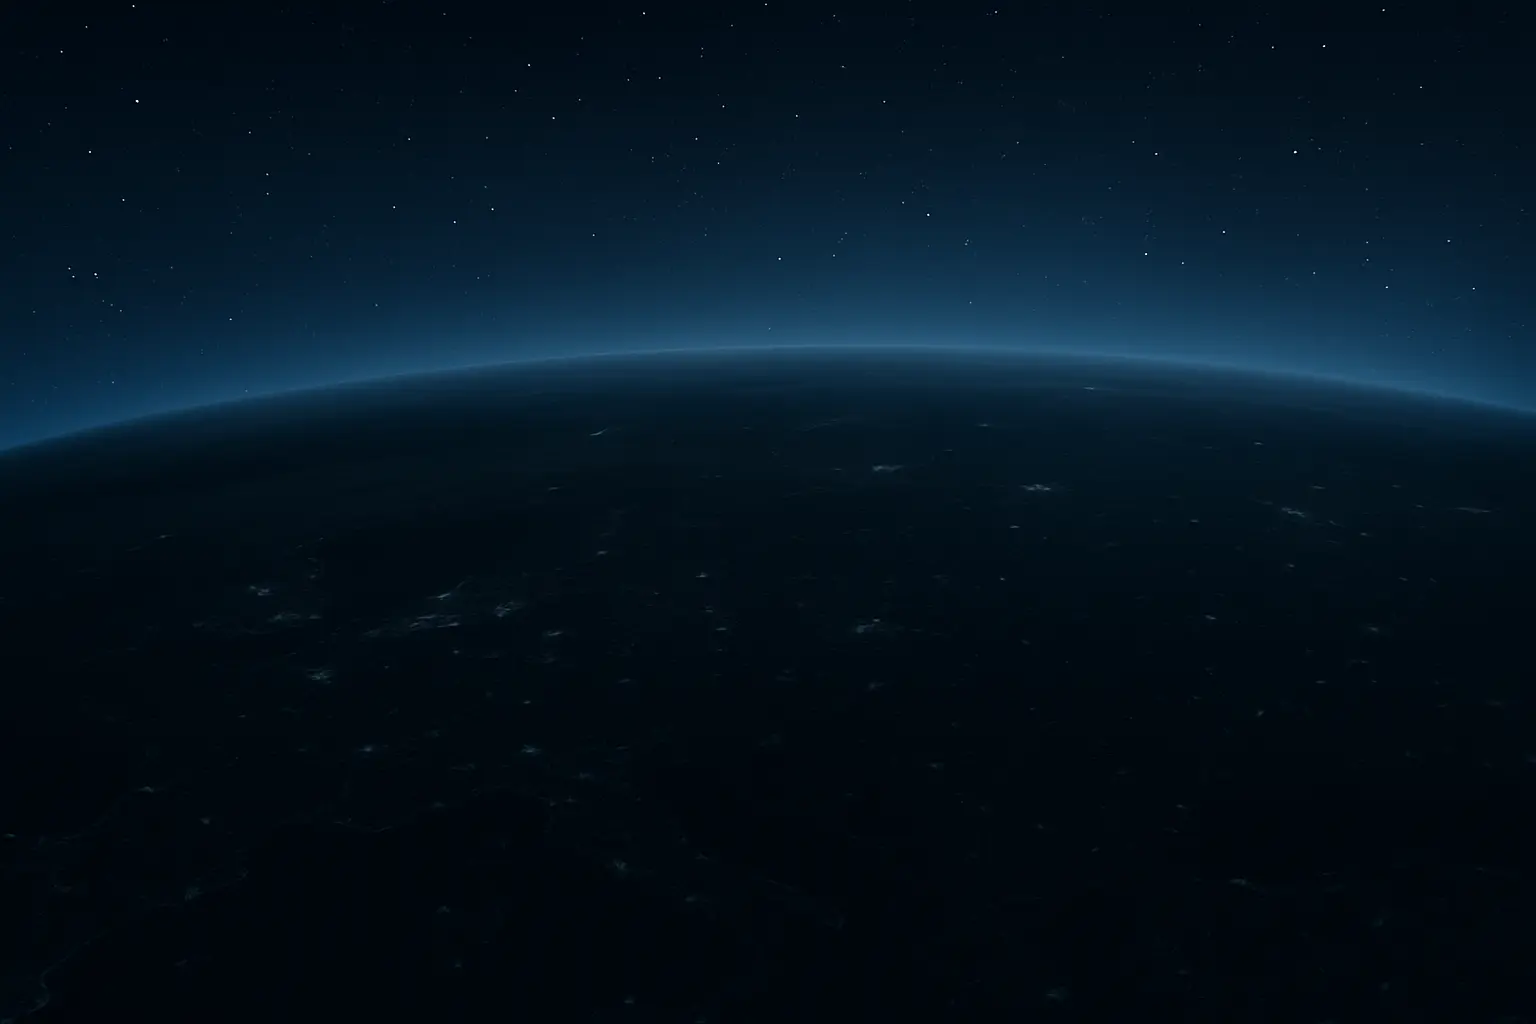
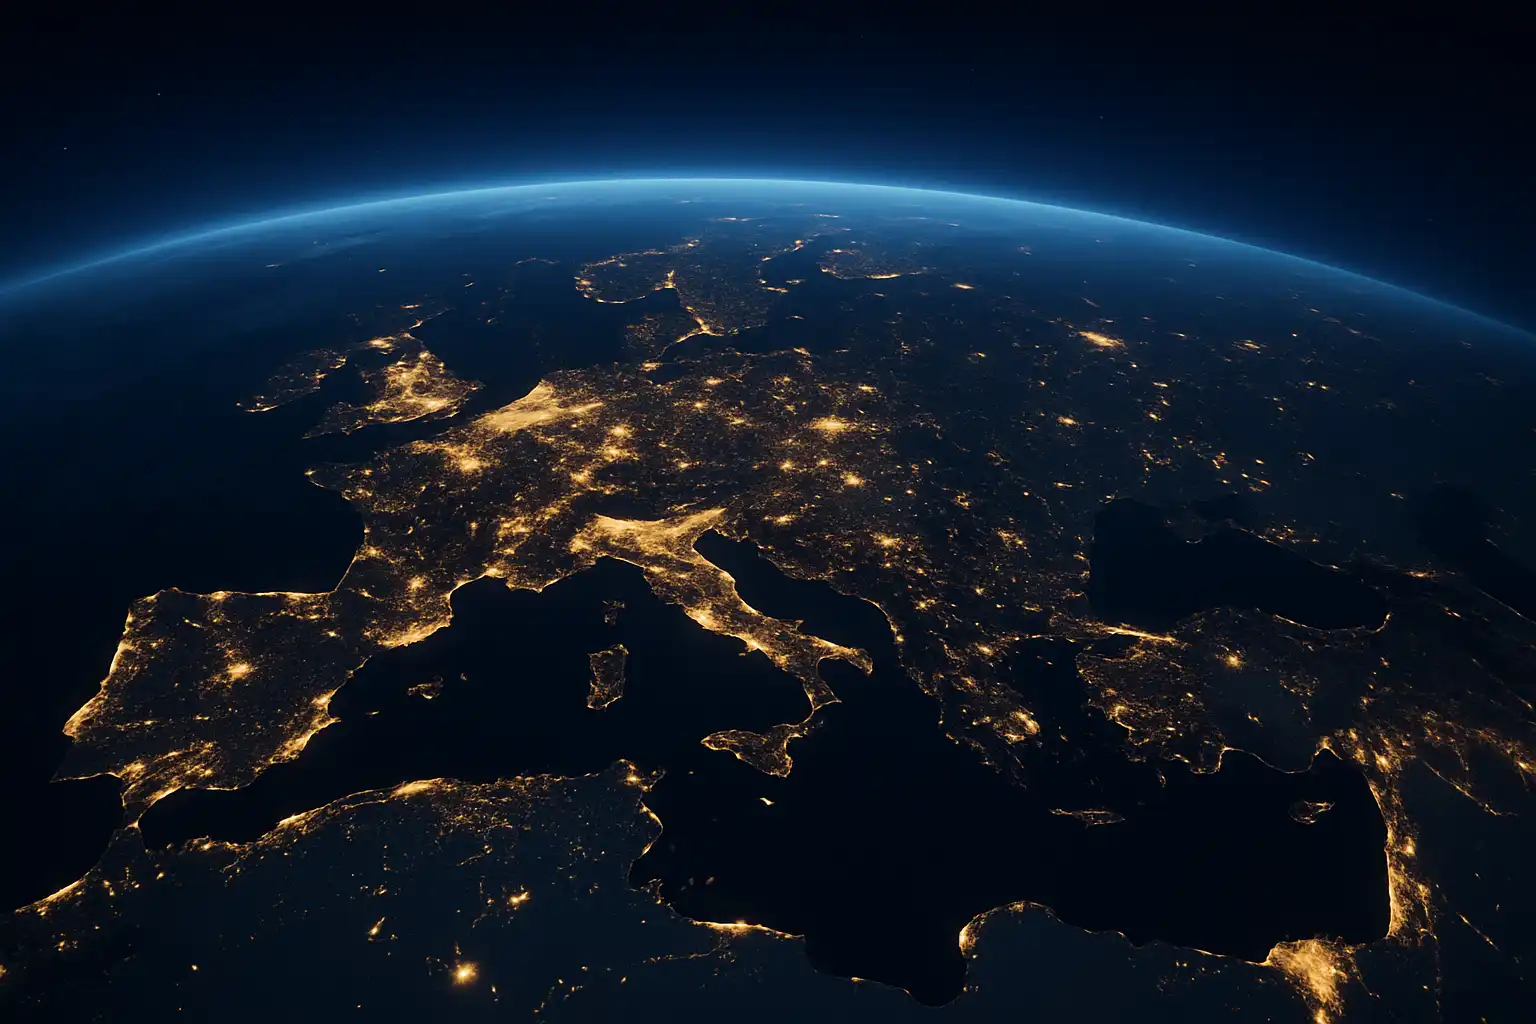
updated background still not good though

diff --git a/styles.css b/styles.css
@@ -149,7 +149,7 @@ header{background:var(--clr-header-bg);border-bottom:2px solid var(--clr-header-
 
 
   .modal-content { padding: 1em; } /* tighter padding on very short screens */
-}
+
 
 /* ------------------------------------------------------------------
    Subpage Main Content
